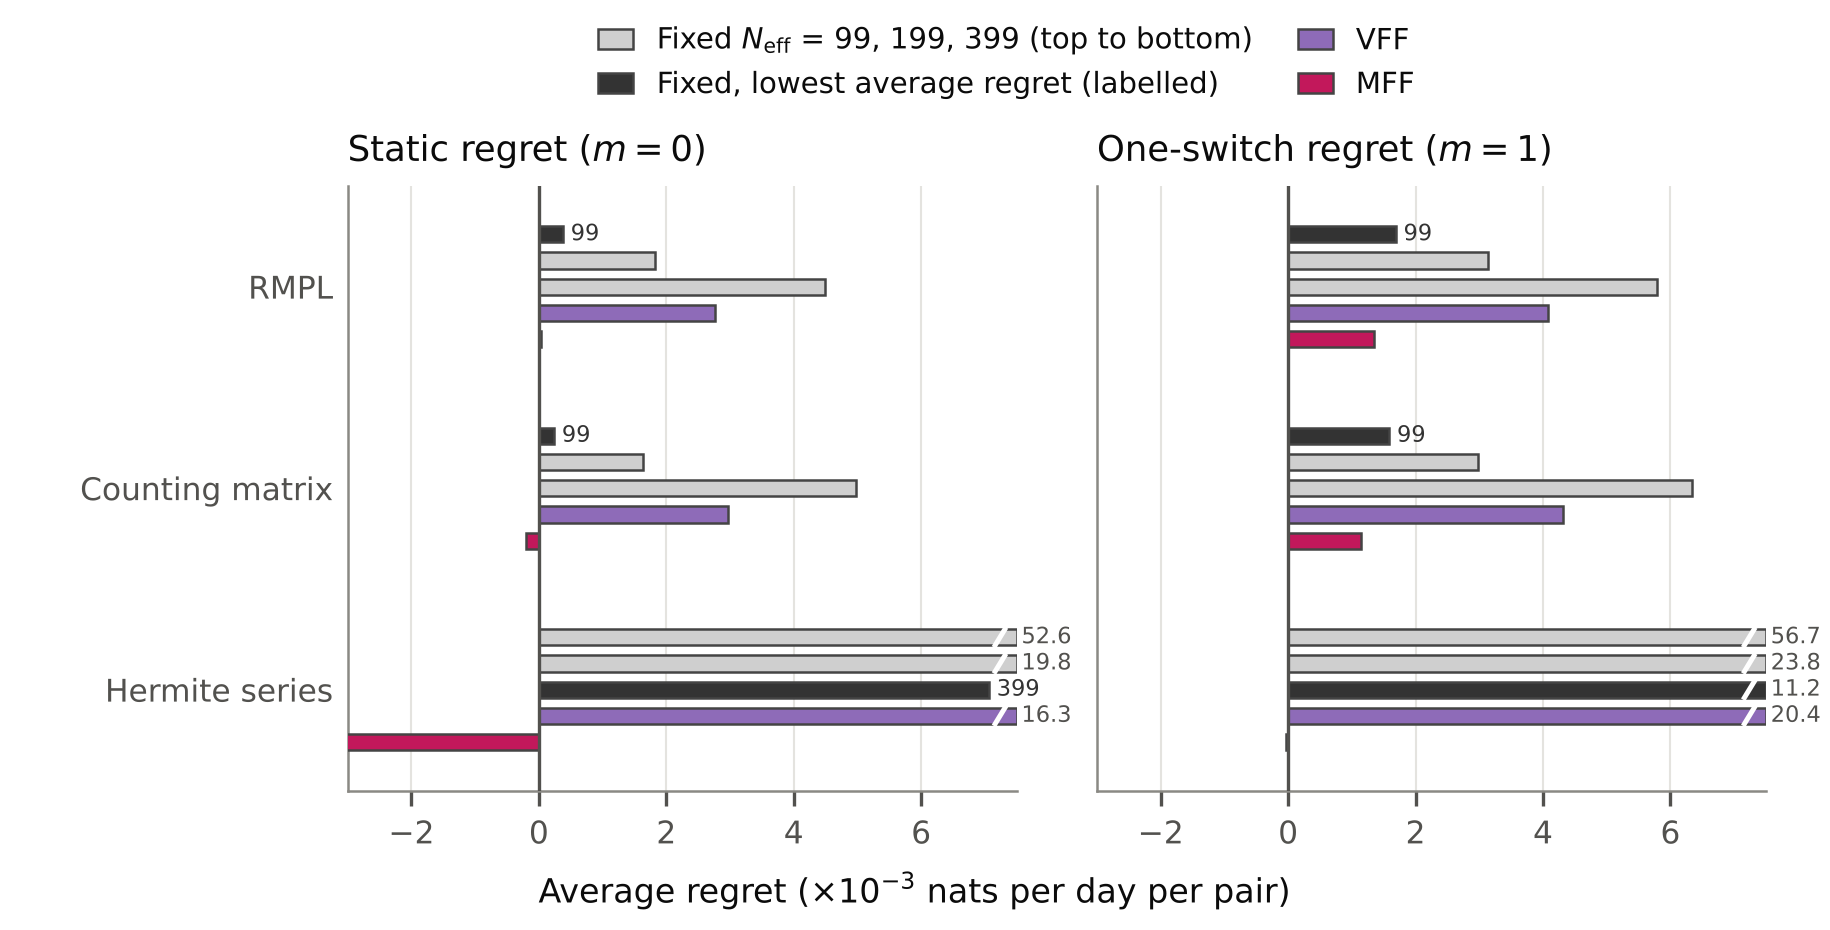
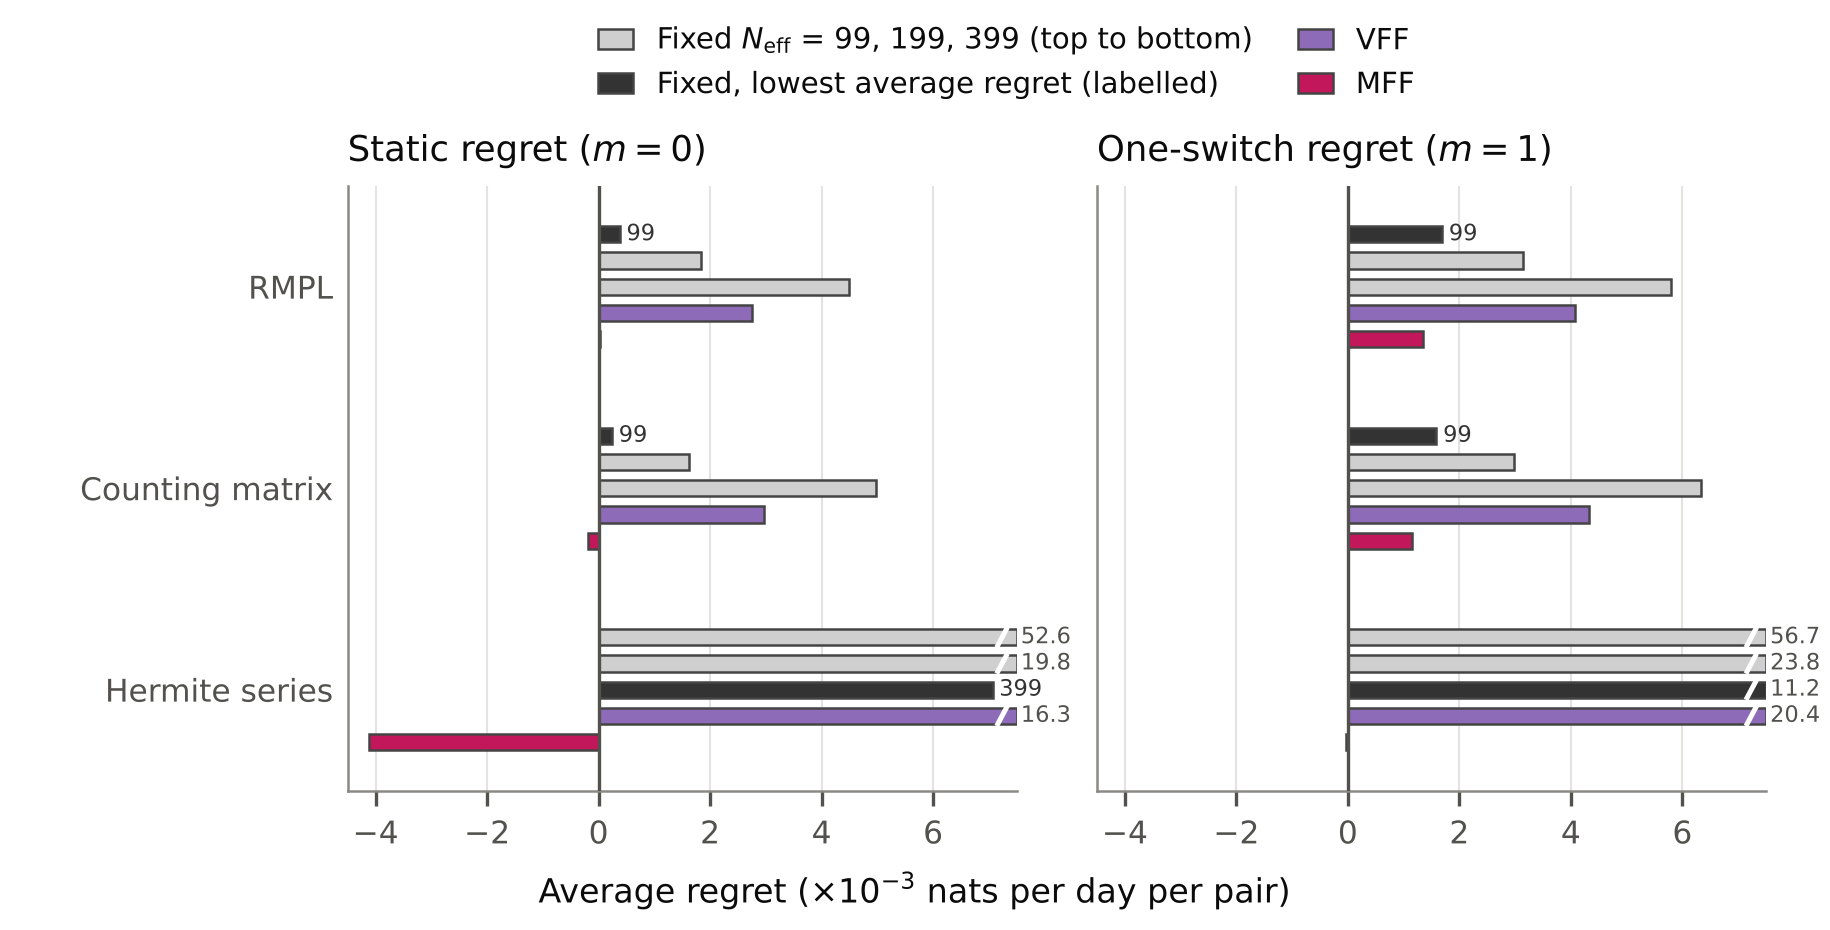
6.6 figures: show values past the axis limits
Hermite's t4-scored values now exceed the fixed axes. Final regret: bars past either edge get a
break mark and their value (Hermite MFF, -4.13, ran off the left edge unmarked; the left limit
moves to -4.5). Strength vs advantage: the 5 Hermite pairs below -28 were hidden; they are now
arrows at the bottom edge with a count and the lowest value.

Claude-Session: https://claude.ai/code/session_011LH6MHfBJAMQDu7UQqGgRH

diff --git a/experiments/6.6-real-data/plots_loss.py b/experiments/6.6-real-data/plots_loss.py
@@ -19,7 +19,8 @@ C_OTHER, C_BEST, C_VFF, C_MFF = (ce.STRATEGY[k] for k in ("fixed_other", "fixed"
 SWITCH_LABEL = {"RMPL": "RMPL", "Counting matrix": "Counting matrix", "Hermite series": "Hermite"}
 REGRET_FIX = [99, 199, 399]
 REGRET_BARS = [f"fixed{k}" for k in REGRET_FIX] + ["VFF", "MFF"]
-REGRET_XMAX = 7.5
+REGRET_XMIN, REGRET_XMAX = -4.5, 7.5
+STRENGTH_YMIN = -28
 CHANGE_FIXED = tuple(map(int, os.environ.get("FIXED", ",".join(map(str, DOT_FIXED))).split(",")))
 CHANGE_TAG = "" if CHANGE_FIXED == DOT_FIXED else "_" + "_".join(map(str, CHANGE_FIXED))
 CHANGE_REF = {"RMPL": (-6.93, -1.61), "Counting matrix": (-6.36, -1.13), "Hermite series": (-3.92, -3.68)}
@@ -118,14 +119,16 @@ def regret_panel(ax, R, m, title):
             v = R[(e, m, k)]
             y = ei + (i - (len(REGRET_BARS) - 1) / 2) * bw
             col = C_VFF if k == "VFF" else C_MFF if k == "MFF" else C_BEST if k == best else C_OTHER
-            ax.barh(y, min(v, REGRET_XMAX), height=bw * 0.62, color=col, edgecolor=ce.EDGE, lw=0.6, zorder=3)
-            if v > REGRET_XMAX:
-                ax.plot([REGRET_XMAX * 0.955, REGRET_XMAX * 0.975], [y + bw * 0.3, y - bw * 0.3], color="white", lw=1.2, zorder=5)
-                ax.text(REGRET_XMAX * 1.01, y, f"{v:.1f}", ha="left", va="center", fontsize=5.4, color=ce.MUTED, clip_on=False)
+            ax.barh(y, min(max(v, REGRET_XMIN), REGRET_XMAX), height=bw * 0.62, color=col, edgecolor=ce.EDGE, lw=0.6, zorder=3)
+            for edge, side in ((REGRET_XMAX, 1), (REGRET_XMIN, -1)):   # bars past an edge: a break mark and the value
+                if v * side > edge * side:
+                    ax.plot([edge * 0.955, edge * 0.975], [y + bw * 0.3, y - bw * 0.3], color="white", lw=1.2, zorder=5)
+                    ax.text(edge * 1.01, y, f"{v:.1f}", ha="left" if side > 0 else "right", va="center", fontsize=5.4,
+                            color=ce.MUTED, clip_on=False)
             if k == best:
                 ax.text(max(v, 0) + 0.12, y, k[5:], ha="left", va="center", fontsize=5.4, color=C_BEST)
     ax.axvline(0, color=ce.MUTED, lw=0.8, zorder=4)
-    ax.set_xlim(-3.0, REGRET_XMAX)
+    ax.set_xlim(REGRET_XMIN, REGRET_XMAX)
     ax.set_ylim(len(EST) - 0.5, -0.5)
     ax.set_title(title)
     estimator_rows(ax)
@@ -279,16 +282,22 @@ def strength_panel(ax, g, e):
     ax.axhline(0, color=ce.MUTED, lw=0.8, zorder=1)
     ax.plot(xs, b0 + b1 * xs, color=ECOL[e], lw=0.9, ls=(0, (4, 2)), alpha=0.6, zorder=2)
     ax.text(0.04, 0.05, rf"$r_s = {s.correlation:.2f}$", transform=ax.transAxes, fontsize=7, color=ce.MUTED, ha="left", va="bottom")
+    below = g[g.mff_minus_vff < STRENGTH_YMIN]   # off the shared axis: an arrow at the bottom edge and a count
+    g = g[g.mff_minus_vff >= STRENGTH_YMIN]
     gf, sp = g[g.pair != "SPY_IVV"], g[g.pair == "SPY_IVV"]
     ax.scatter(gf.mean_rho, gf.mff_minus_vff, s=16, marker=EMK[e], color=ECOL[e], edgecolor="white", lw=0.4, alpha=0.9, zorder=3)
     ax.scatter(sp.mean_rho, sp.mff_minus_vff, s=16, marker=EMK[e], facecolor="white", edgecolor=ECOL[e], lw=0.9, zorder=3)
+    if len(below):
+        ax.scatter(below.mean_rho, np.full(len(below), STRENGTH_YMIN + 0.9), s=18, marker="v", color=ECOL[e], edgecolor="white", lw=0.4, zorder=3)
+        ax.text(0.97, 0.52, f"{len(below)} below {STRENGTH_YMIN:.0f}\n(lowest {below.mff_minus_vff.min():.0f})", transform=ax.transAxes,
+                fontsize=6.5, color=ce.MUTED, ha="right", va="top")
     for _, r in g[g.pair.isin(PAIR_LABEL)].iterrows():
         spy = r.pair == "SPY_IVV"
         ax.annotate(PAIR_LABEL[r.pair], (r.mean_rho, r.mff_minus_vff), xytext=(-4, -4) if spy else (5, -3), textcoords="offset points",
                     fontsize=6.5, color=ce.MUTED, ha="right" if spy else "left", va="top" if spy else "baseline")
     ax.set_title(e)
     ce.grid(ax)
-    ax.set_ylim(-28, 3)
+    ax.set_ylim(STRENGTH_YMIN, 3)
     ax.set_xlim(0.42, 1.02)
     ax.set_xticks([0.5, 0.6, 0.7, 0.8, 0.9, 1.0])
     ax.set_xticklabels(["0.5", "0.6", "0.7", "0.8", "0.9", "1.0"])
